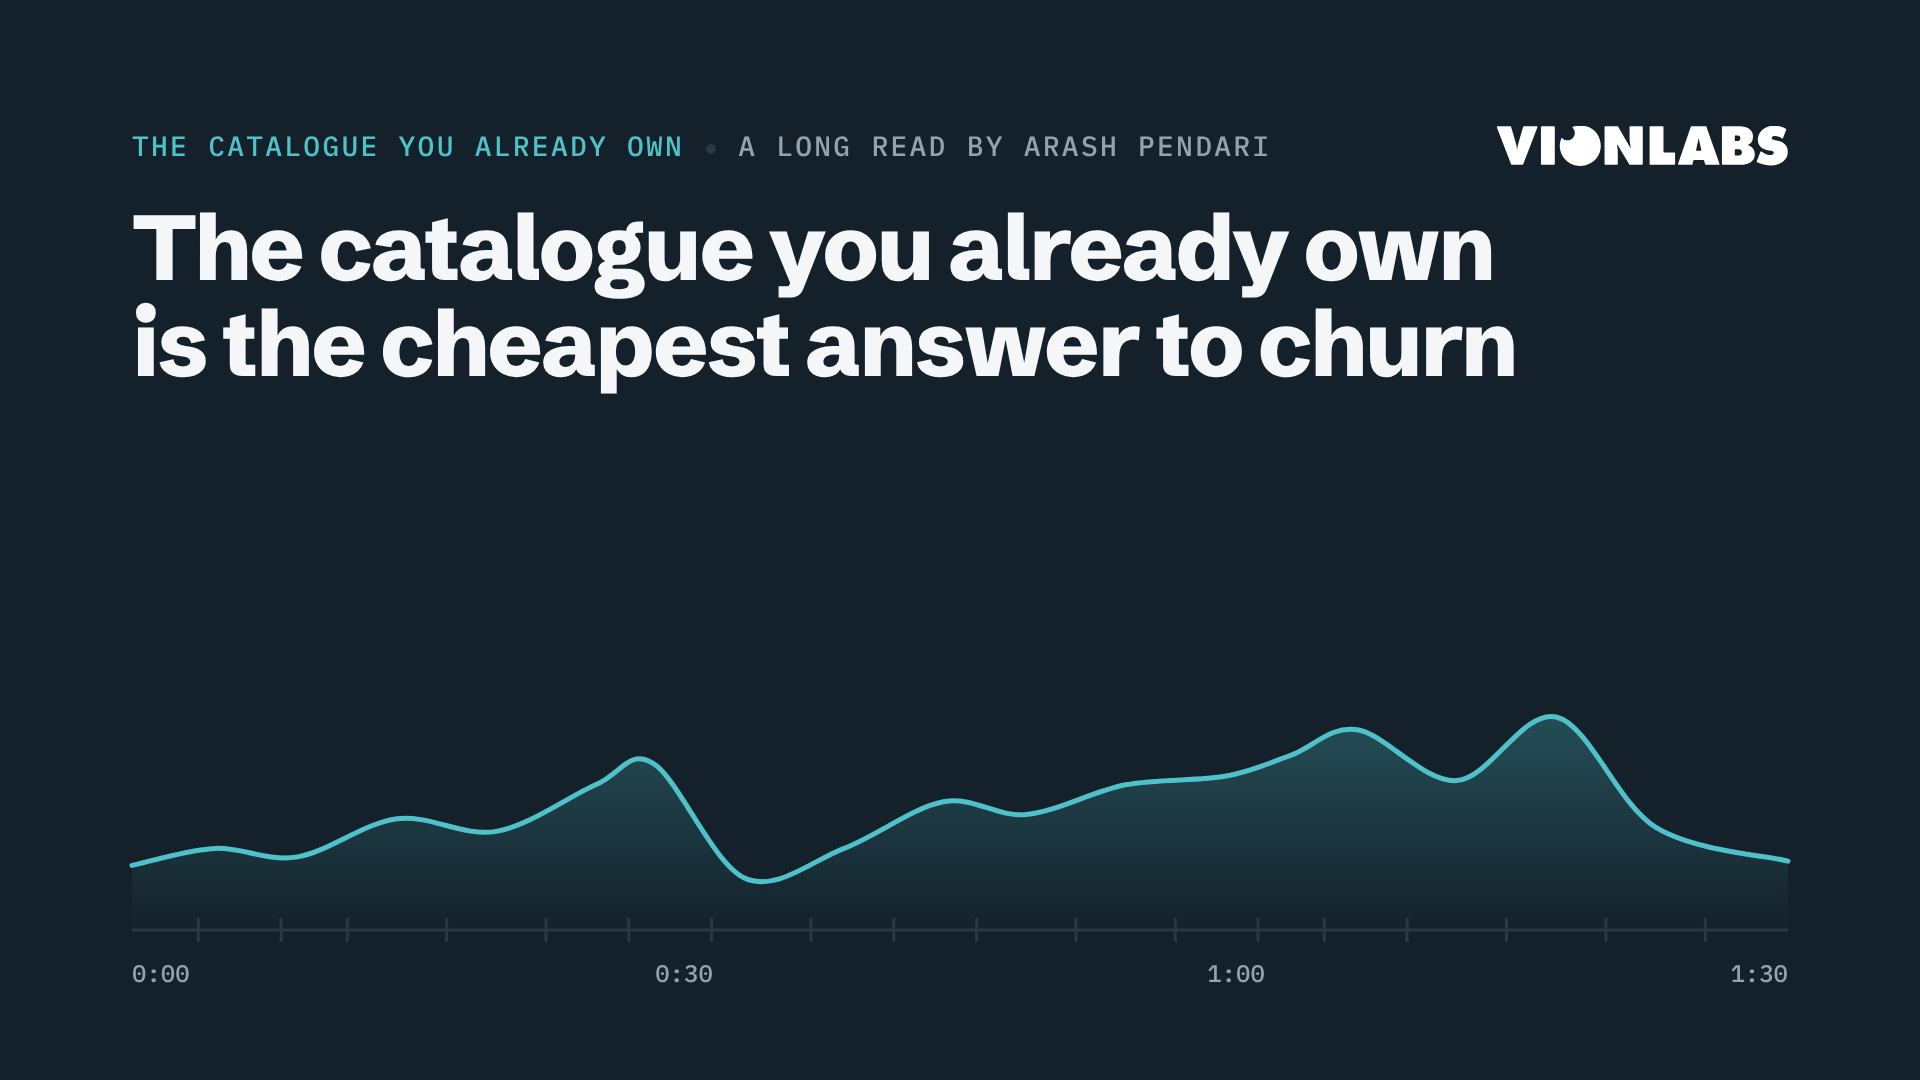
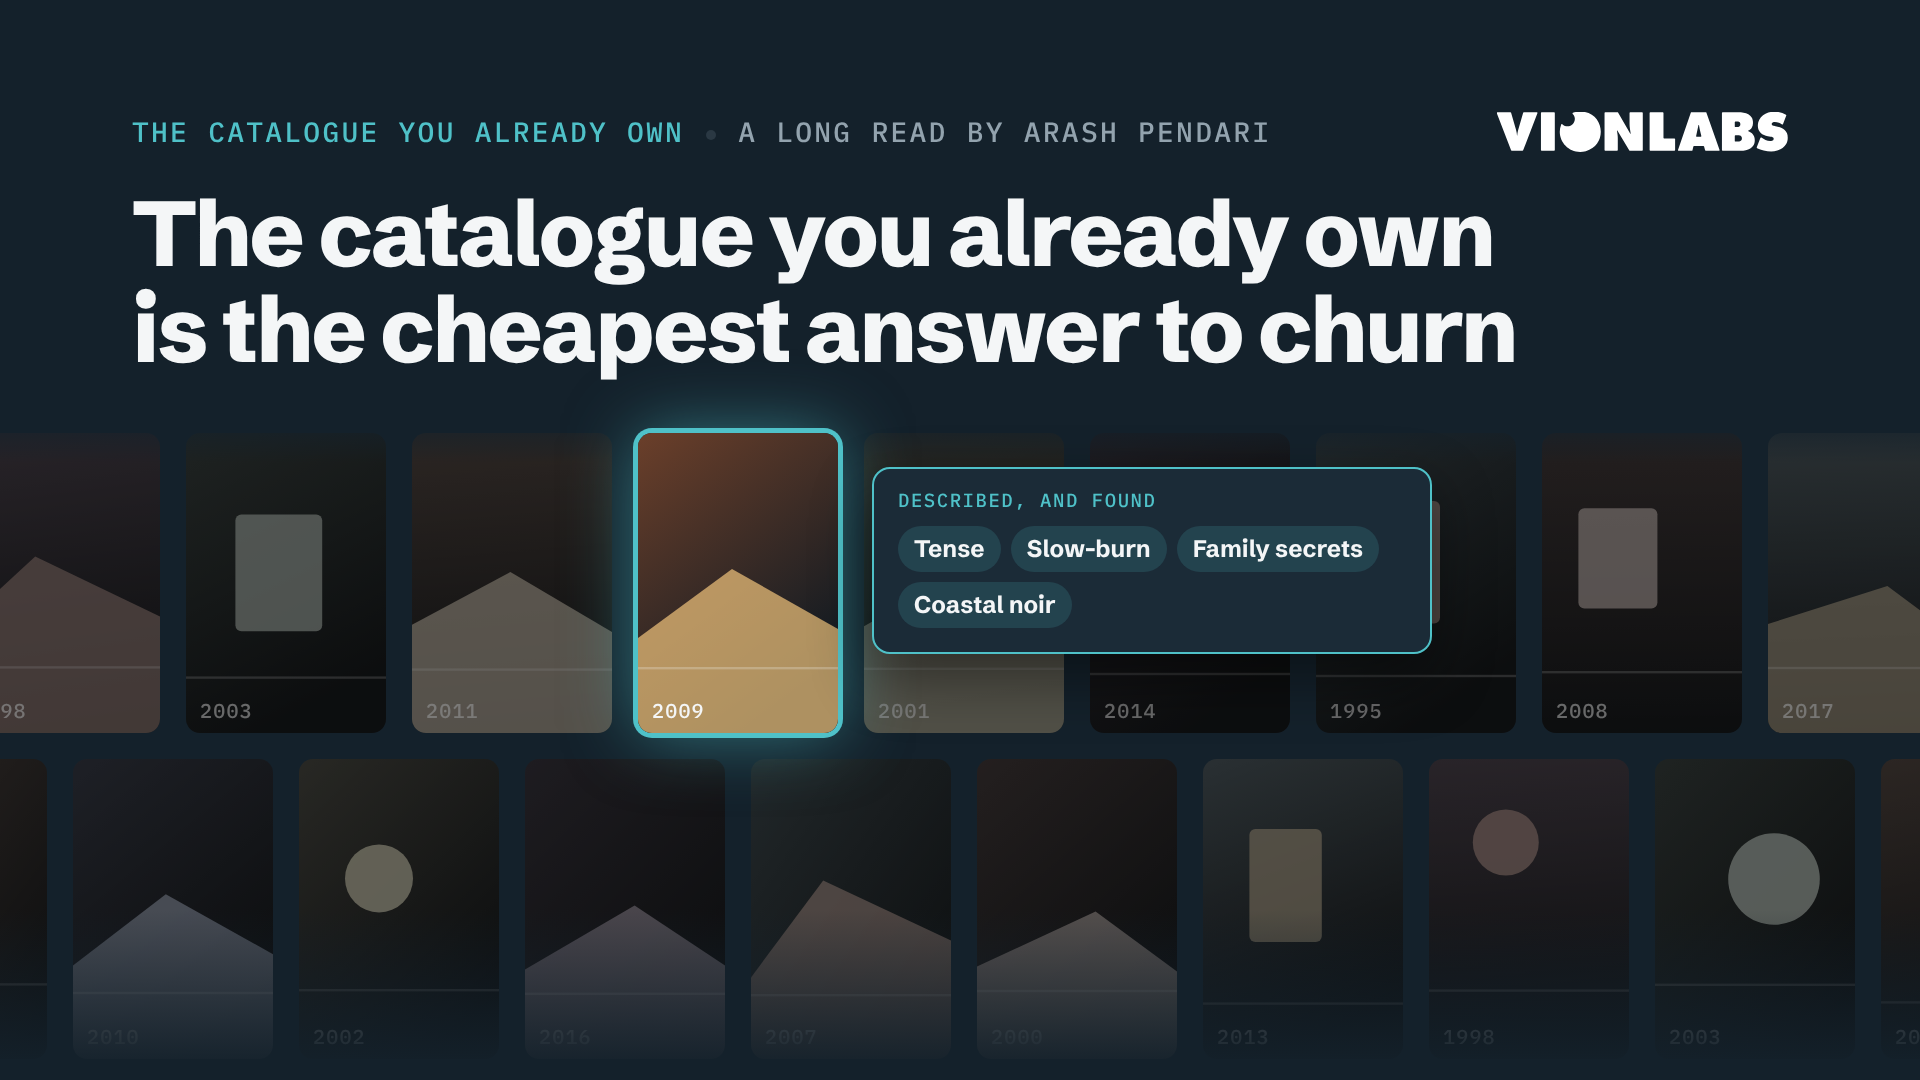
Give the W45 images a catalogue-wall style
Claude-Session: https://claude.ai/code/session_015Kf79uanNb7hZho8qrKdQy

diff --git a/content-engine/bot/shelf.html b/content-engine/bot/shelf.html
@@ -1,0 +1,151 @@
+<!doctype html>
+<html>
+<head>
+<meta charset="utf-8">
+<title>Deep Dives shelf</title>
+<link rel="stylesheet" href="https://fonts.googleapis.com/css2?family=Schibsted+Grotesk:wght@500;700;800&family=IBM+Plex+Mono:wght@500&display=swap">
+<style>
+/* A catalogue wall for covers, grid thumbnails and LinkedIn images: rows of abstract posters, most of them old and dimmed, one old title lit up with the mood tags that get it found. The same page draws all three sizes (cover.js sets the viewport and window.COVER, THUMB or SOCIAL). Posters are abstract shapes, never real artwork or titles. */
+:root {
+  --ink: #14212b;
+  --paper: #f4f6f7;
+  --muted: #93a3ae;
+  --line: #2a3843;
+  --accent: #4fc1c8;
+  --display: "Schibsted Grotesk", "Helvetica Neue", Arial, sans-serif;
+  --mono: "IBM Plex Mono", ui-monospace, Menlo, monospace;
+}
+* { box-sizing: border-box; }
+html, body { margin: 0; overflow: hidden; background: var(--ink); color: var(--paper); }
+.page { position: relative; overflow: hidden; }
+.wall { position: absolute; inset: 0; }
+.poster { position: absolute; border-radius: 14px; overflow: hidden; filter: grayscale(0.75) brightness(0.55); }
+.poster .yr { position: absolute; left: 14px; bottom: 12px; font: 500 20px/1 var(--mono); letter-spacing: 0.06em; color: rgba(244, 246, 247, 0.75); }
+.poster.lit { filter: none; box-shadow: 0 0 0 5px var(--accent), 0 0 70px rgba(79, 193, 200, 0.55); z-index: 3; }
+.poster.lit .yr { color: var(--paper); }
+.fade { position: absolute; left: 0; right: 0; pointer-events: none; z-index: 2; }
+.card { position: absolute; z-index: 4; background: #1b2b37; border: 2px solid var(--accent); border-radius: 18px; padding: 22px 24px 24px; box-shadow: 0 24px 60px rgba(0, 0, 0, 0.45); }
+.card .lab { font: 500 19px/1 var(--mono); letter-spacing: 0.08em; text-transform: uppercase; color: var(--accent); margin-bottom: 16px; }
+.card .tags { display: flex; flex-wrap: wrap; gap: 10px; }
+.card .tags span { font: 700 24px/1 var(--display); padding: 11px 16px; border-radius: 999px; background: rgba(79, 193, 200, 0.16); color: var(--paper); white-space: nowrap; }
+.head { position: absolute; z-index: 5; }
+.top { display: flex; justify-content: space-between; align-items: center; }
+.kicker { font: 500 28px/1 var(--mono); letter-spacing: 0.08em; text-transform: uppercase; color: var(--accent); display: flex; gap: 22px; align-items: center; }
+.kicker span + span::before { content: ""; display: inline-block; width: 10px; height: 10px; border-radius: 50%; background: var(--line); margin-right: 22px; vertical-align: middle; }
+.kicker .by { color: var(--muted); }
+h1 { margin: 34px 0 0; font: 800 92px/1.04 var(--display); letter-spacing: -0.025em; text-wrap: balance; }
+.foot[hidden] { display: none; }
+.foot { position: absolute; z-index: 5; display: flex; justify-content: space-between; align-items: center; }
+.byline { font: 500 30px/36px var(--display); color: var(--muted); white-space: nowrap; }
+.byline b { font-weight: 700; color: var(--paper); }
+.cta { display: inline-flex; align-items: center; gap: 14px; height: 72px; padding: 0 30px; border: 3px solid var(--accent); border-radius: 36px; font: 700 30px/1 var(--display); color: var(--accent); white-space: nowrap; background: var(--ink); }
+/* The official wordmark (assets/vionlabs-logo-white.svg, never redrawn), cropped to its ink because the file's viewBox pads it. --h is the ink height. */
+.logo { --h: 40px; flex: none; overflow: hidden; height: var(--h); width: calc(var(--h) * 391.56 / 53.74); }
+.logo img { display: block; height: calc(var(--h) * 93.333 / 53.74); margin: calc(var(--h) * -22.28 / 53.74) 0 0 calc(var(--h) * -19.875 / 53.74); }
+</style>
+</head>
+<body>
+<div class="page" id="page">
+  <div class="wall" id="wall"></div>
+  <div class="head" id="head">
+    <div class="top"><span class="kicker" id="kicker"></span><span class="logo"><img src="assets/vionlabs-logo-white.svg" alt="Vionlabs"></span></div>
+    <h1 id="headline"></h1>
+  </div>
+  <div class="foot" id="foot" hidden><span class="byline" id="byline"></span><span class="cta"><span id="cta"></span><svg width="26" height="22" viewBox="0 0 26 22" aria-hidden="true"><path d="M2 11H22M13 2L23 11L13 20" fill="none" stroke="#4fc1c8" stroke-width="4" stroke-linecap="round" stroke-linejoin="round"/></svg></span></div>
+</div>
+<script>
+// Spec from cover.js: {kicker, by, headline, cta, tags: [...], tagLabel, litYear}. The layout follows the viewport:
+// 1920x1080 cover, 1600x1260 grid thumbnail, 1080x1350 LinkedIn image (with byline and button).
+var PALETTE = [["#2f5d73", "#d9a441"], ["#5b3a5e", "#e07a5f"], ["#26453c", "#9fc5a8"], ["#6b3f2a", "#f2c57c"],
+  ["#2b3a67", "#8fb3ff"], ["#4a4a2e", "#d6c86a"], ["#3d2f4f", "#c39bd3"], ["#1f4e5f", "#f28f6b"], ["#553333", "#e8b4a0"]];
+var YEARS = [1998, 2003, 2011, 2006, 2001, 2014, 1995, 2008, 2017, 2004, 2012, 1999, 2010, 2002, 2016, 2007, 2000, 2013];
+
+function rnd(seed) { var x = Math.sin(seed * 9301 + 49297) * 233280; return x - Math.floor(x); }
+
+function poster(i, x, y, w, h, year, lit) {
+  var p = document.createElement("div"); p.className = "poster" + (lit ? " lit" : "");
+  p.style.cssText = "left:" + x + "px;top:" + y + "px;width:" + w + "px;height:" + h + "px";
+  // The lit title looks the same in every size: a warm dusk landscape.
+  var c = lit ? ["#6b3f2a", "#f2c57c"] : PALETTE[i % PALETTE.length], r1 = lit ? 0.5 : rnd(i), r2 = lit ? 0.4 : rnd(i + 50), r3 = lit ? 0.5 : rnd(i + 99);
+  var shape = lit ? 1 : Math.floor(r3 * 3);
+  var svg = '<svg width="' + w + '" height="' + h + '" viewBox="0 0 100 150" preserveAspectRatio="none">' +
+    '<defs><linearGradient id="g' + i + '" x1="0" y1="0" x2="' + r1.toFixed(2) + '" y2="1"><stop offset="0" stop-color="' + c[0] + '"/><stop offset="1" stop-color="#101a22"/></linearGradient></defs>' +
+    '<rect width="100" height="150" fill="url(#g' + i + ')"/>';
+  if (shape === 0) svg += '<circle cx="' + (30 + r2 * 40).toFixed(1) + '" cy="' + (40 + r1 * 30).toFixed(1) + '" r="' + (14 + r2 * 12).toFixed(1) + '" fill="' + c[1] + '" opacity="0.85"/>';
+  if (shape === 1) svg += '<path d="M0 ' + (95 + r1 * 15).toFixed(1) + ' L' + (35 + r2 * 30).toFixed(1) + ' ' + (60 + r2 * 20).toFixed(1) + ' L100 ' + (90 + r2 * 20).toFixed(1) + ' L100 150 L0 150Z" fill="' + c[1] + '" opacity="0.7"/>';
+  if (shape === 2) svg += '<rect x="' + (18 + r1 * 20).toFixed(1) + '" y="' + (30 + r2 * 20).toFixed(1) + '" width="' + (30 + r2 * 25).toFixed(1) + '" height="' + (50 + r1 * 25).toFixed(1) + '" rx="3" fill="' + c[1] + '" opacity="0.75"/>';
+  svg += '<rect y="' + (112 + r3 * 10).toFixed(1) + '" width="100" height="1.2" fill="#f4f6f7" opacity="0.25"/></svg>';
+  p.innerHTML = svg + '<span class="yr">' + year + '</span>';
+  return p;
+}
+
+function draw(spec, W, H, social) {
+  var page = document.getElementById("page"); page.style.width = W + "px"; page.style.height = H + "px";
+  document.body.style.width = W + "px"; document.body.style.height = H + "px";
+  var pad = W >= 1900 ? 132 : W >= 1500 ? 120 : 84;
+  var head = document.getElementById("head");
+  head.style.cssText = "left:" + pad + "px;right:" + pad + "px;top:" + (W >= 1900 ? 112 : 96) + "px";
+  document.getElementById("headline").style.maxWidth = (W >= 1900 ? 1500 : W - 2 * pad) + "px";
+  var k = document.getElementById("kicker"); k.innerHTML = "";
+  [spec.kicker, W >= 1900 ? spec.by : ""].filter(Boolean).forEach(function (t, i) {
+    var s = document.createElement("span"); s.textContent = t; if (i) s.className = "by"; k.appendChild(s);
+  });
+  document.getElementById("headline").textContent = spec.headline || "";
+
+  // The wall starts below the headline and runs off the bottom (or stops above the LinkedIn footer).
+  var headBottom = head.getBoundingClientRect().bottom;
+  var footH = social ? 190 : 0;
+  var top = headBottom + (W >= 1900 ? 56 : 60), bottom = H - footH;
+  var th = W >= 1900 ? 300 : W >= 1500 ? 330 : 300, tw = Math.round(th * 2 / 3), gap = 26;
+  var wall = document.getElementById("wall"); wall.innerHTML = "";
+  var rows = Math.max(1, Math.ceil((bottom - top + 40) / (th + gap)));
+  var cols = Math.ceil(W / (tw + gap)) + 2;
+  var litRow = 0, litCol = W >= 1900 ? 2 : 1, litBox = null, n = 0;
+  for (var r = 0; r < rows; r++) {
+    var off = (r % 2 ? -(tw + gap) / 2 : 0) - 40;
+    for (var c = 0; c < cols; c++) {
+      var x = Math.round(off + c * (tw + gap)), y = Math.round(top + r * (th + gap));
+      var lit = r === litRow && c === litCol + 1;
+      var year = lit ? (spec.litYear || 2009) : YEARS[n % YEARS.length];
+      wall.appendChild(poster(n + 1, x, y, tw, th, year, lit));
+      if (lit) litBox = { x: x, y: y };
+      n++;
+    }
+  }
+  // Fade the wall out under the headline and towards the bottom edge.
+  var f1 = document.createElement("div"); f1.className = "fade";
+  f1.style.cssText = "top:0;height:" + (top + 30) + "px;background:linear-gradient(to bottom, var(--ink) " + Math.round(top - 20) + "px, rgba(20,33,43,0))";
+  wall.appendChild(f1);
+  var f2 = document.createElement("div"); f2.className = "fade";
+  f2.style.cssText = "bottom:0;height:" + (H - bottom + 170) + "px;background:linear-gradient(to top, var(--ink) " + (H - bottom + 10) + "px, rgba(20,33,43,0))";
+  wall.appendChild(f2);
+
+  // The tag card sits beside the lit poster: what a description adds to an old title.
+  if (litBox && (spec.tags || []).length) {
+    var card = document.createElement("div"); card.className = "card";
+    card.innerHTML = '<div class="lab"></div><div class="tags"></div>';
+    card.querySelector(".lab").textContent = spec.tagLabel || "";
+    spec.tags.forEach(function (t) { var s = document.createElement("span"); s.textContent = t; card.querySelector(".tags").appendChild(s); });
+    card.style.left = (litBox.x + tw + 34) + "px"; card.style.top = (litBox.y + 34) + "px";
+    card.style.maxWidth = Math.min(560, W - (litBox.x + tw + 34) - pad) + "px";
+    wall.appendChild(card);
+  }
+
+  var foot = document.getElementById("foot");
+  if (social) {
+    foot.hidden = false; foot.style.cssText = "left:" + pad + "px;right:" + pad + "px;bottom:84px";
+    var b = document.getElementById("byline"), cut = (spec.by || "").indexOf(",");
+    b.innerHTML = ""; var nm = document.createElement("b"); nm.textContent = cut < 0 ? spec.by || "" : spec.by.slice(0, cut);
+    b.appendChild(nm); if (cut >= 0) b.appendChild(document.createTextNode(spec.by.slice(cut)));
+    document.getElementById("cta").textContent = spec.cta || "";
+  }
+}
+// Wait for the fonts, because the wall starts where the headline ends.
+document.fonts.ready.then(function () {
+  if (window.COVER) draw(window.COVER, 1920, 1080, false);
+  else if (window.THUMB) draw(window.THUMB, 1600, 1260, false);
+  else if (window.SOCIAL) draw(window.SOCIAL, 1080, 1350, true);
+});
+</script>
+</body>
+</html>

diff --git a/content-engine/bot/cover.js b/content-engine/bot/cover.js
@@ -8,7 +8,8 @@
 // Covers are drawn by cover.html at 1920x1080, figures by figure.html at 1600x900 (or by the template a
 // figure names, e.g. "template": "pipeline" for pipeline.html's step-and-fan-out diagram), the LinkedIn feed
 // image that shares a long read by social.html at 1080x1350 and the thumbnail for the vionlabs.com/news
-// grid (cards are about 1.27:1) by thumb.html at 1600x1260, then saved to deep-dives/<image>. The
+// grid (cards are about 1.27:1) by thumb.html at 1600x1260, then saved to deep-dives/<image>. A cover, thumb or social
+// image can name another template for all three, e.g. "template": "shelf" for shelf.html's catalogue wall. The
 // publish step uploads them next to the page, and the Google Doc loads them from GitHub, so push before
 // exporting. Needs Playwright (installed globally in the cloud sessions).
 const fs = require("fs");
@@ -40,17 +41,17 @@ function playwright() {
     if (only && t.id !== only) continue;
     for (const p of (t.pack || {}).pieces || []) {
       if (p.cover && p.cover.image) {
-        jobs.push({ image: p.cover.image, html: "cover.html", w: 1920, h: 1080, key: "COVER",
-          spec: { kicker: p.cover.kicker || t.title, by: p.cover.by || "", headline: p.cover.headline || p.title, marks: p.cover.marks || [] } });
+        jobs.push({ image: p.cover.image, html: (p.cover.template || "cover") + ".html", w: 1920, h: 1080, key: "COVER",
+          spec: { ...p.cover, kicker: p.cover.kicker || t.title, by: p.cover.by || "", headline: p.cover.headline || p.title, marks: p.cover.marks || [] } });
       }
       for (const f of p.figures || []) if (f.image) jobs.push({ image: f.image, html: (f.template || "figure") + ".html", w: 1600, h: 900, key: "FIGURE", spec: f });
       if (p.social && p.social.image) {
-        jobs.push({ image: p.social.image, html: "social.html", w: 1080, h: 1350, key: "SOCIAL",
-          spec: { kicker: p.social.kicker || t.title, by: p.social.by || "", headline: p.social.headline || p.title, cta: p.social.cta || "Read on vionlabs.com", marks: p.social.marks || [] } });
+        jobs.push({ image: p.social.image, html: (p.social.template || "social") + ".html", w: 1080, h: 1350, key: "SOCIAL",
+          spec: { ...p.social, kicker: p.social.kicker || t.title, by: p.social.by || "", headline: p.social.headline || p.title, cta: p.social.cta || "Read on vionlabs.com", marks: p.social.marks || [] } });
       }
       if (p.thumb && p.thumb.image) {
-        jobs.push({ image: p.thumb.image, html: "thumb.html", w: 1600, h: 1260, key: "THUMB",
-          spec: { kicker: p.thumb.kicker || t.title, headline: p.thumb.headline || p.title, marks: p.thumb.marks || [] } });
+        jobs.push({ image: p.thumb.image, html: (p.thumb.template || "thumb") + ".html", w: 1600, h: 1260, key: "THUMB",
+          spec: { ...p.thumb, kicker: p.thumb.kicker || t.title, headline: p.thumb.headline || p.title, marks: p.thumb.marks || [] } });
       }
     }
   }
